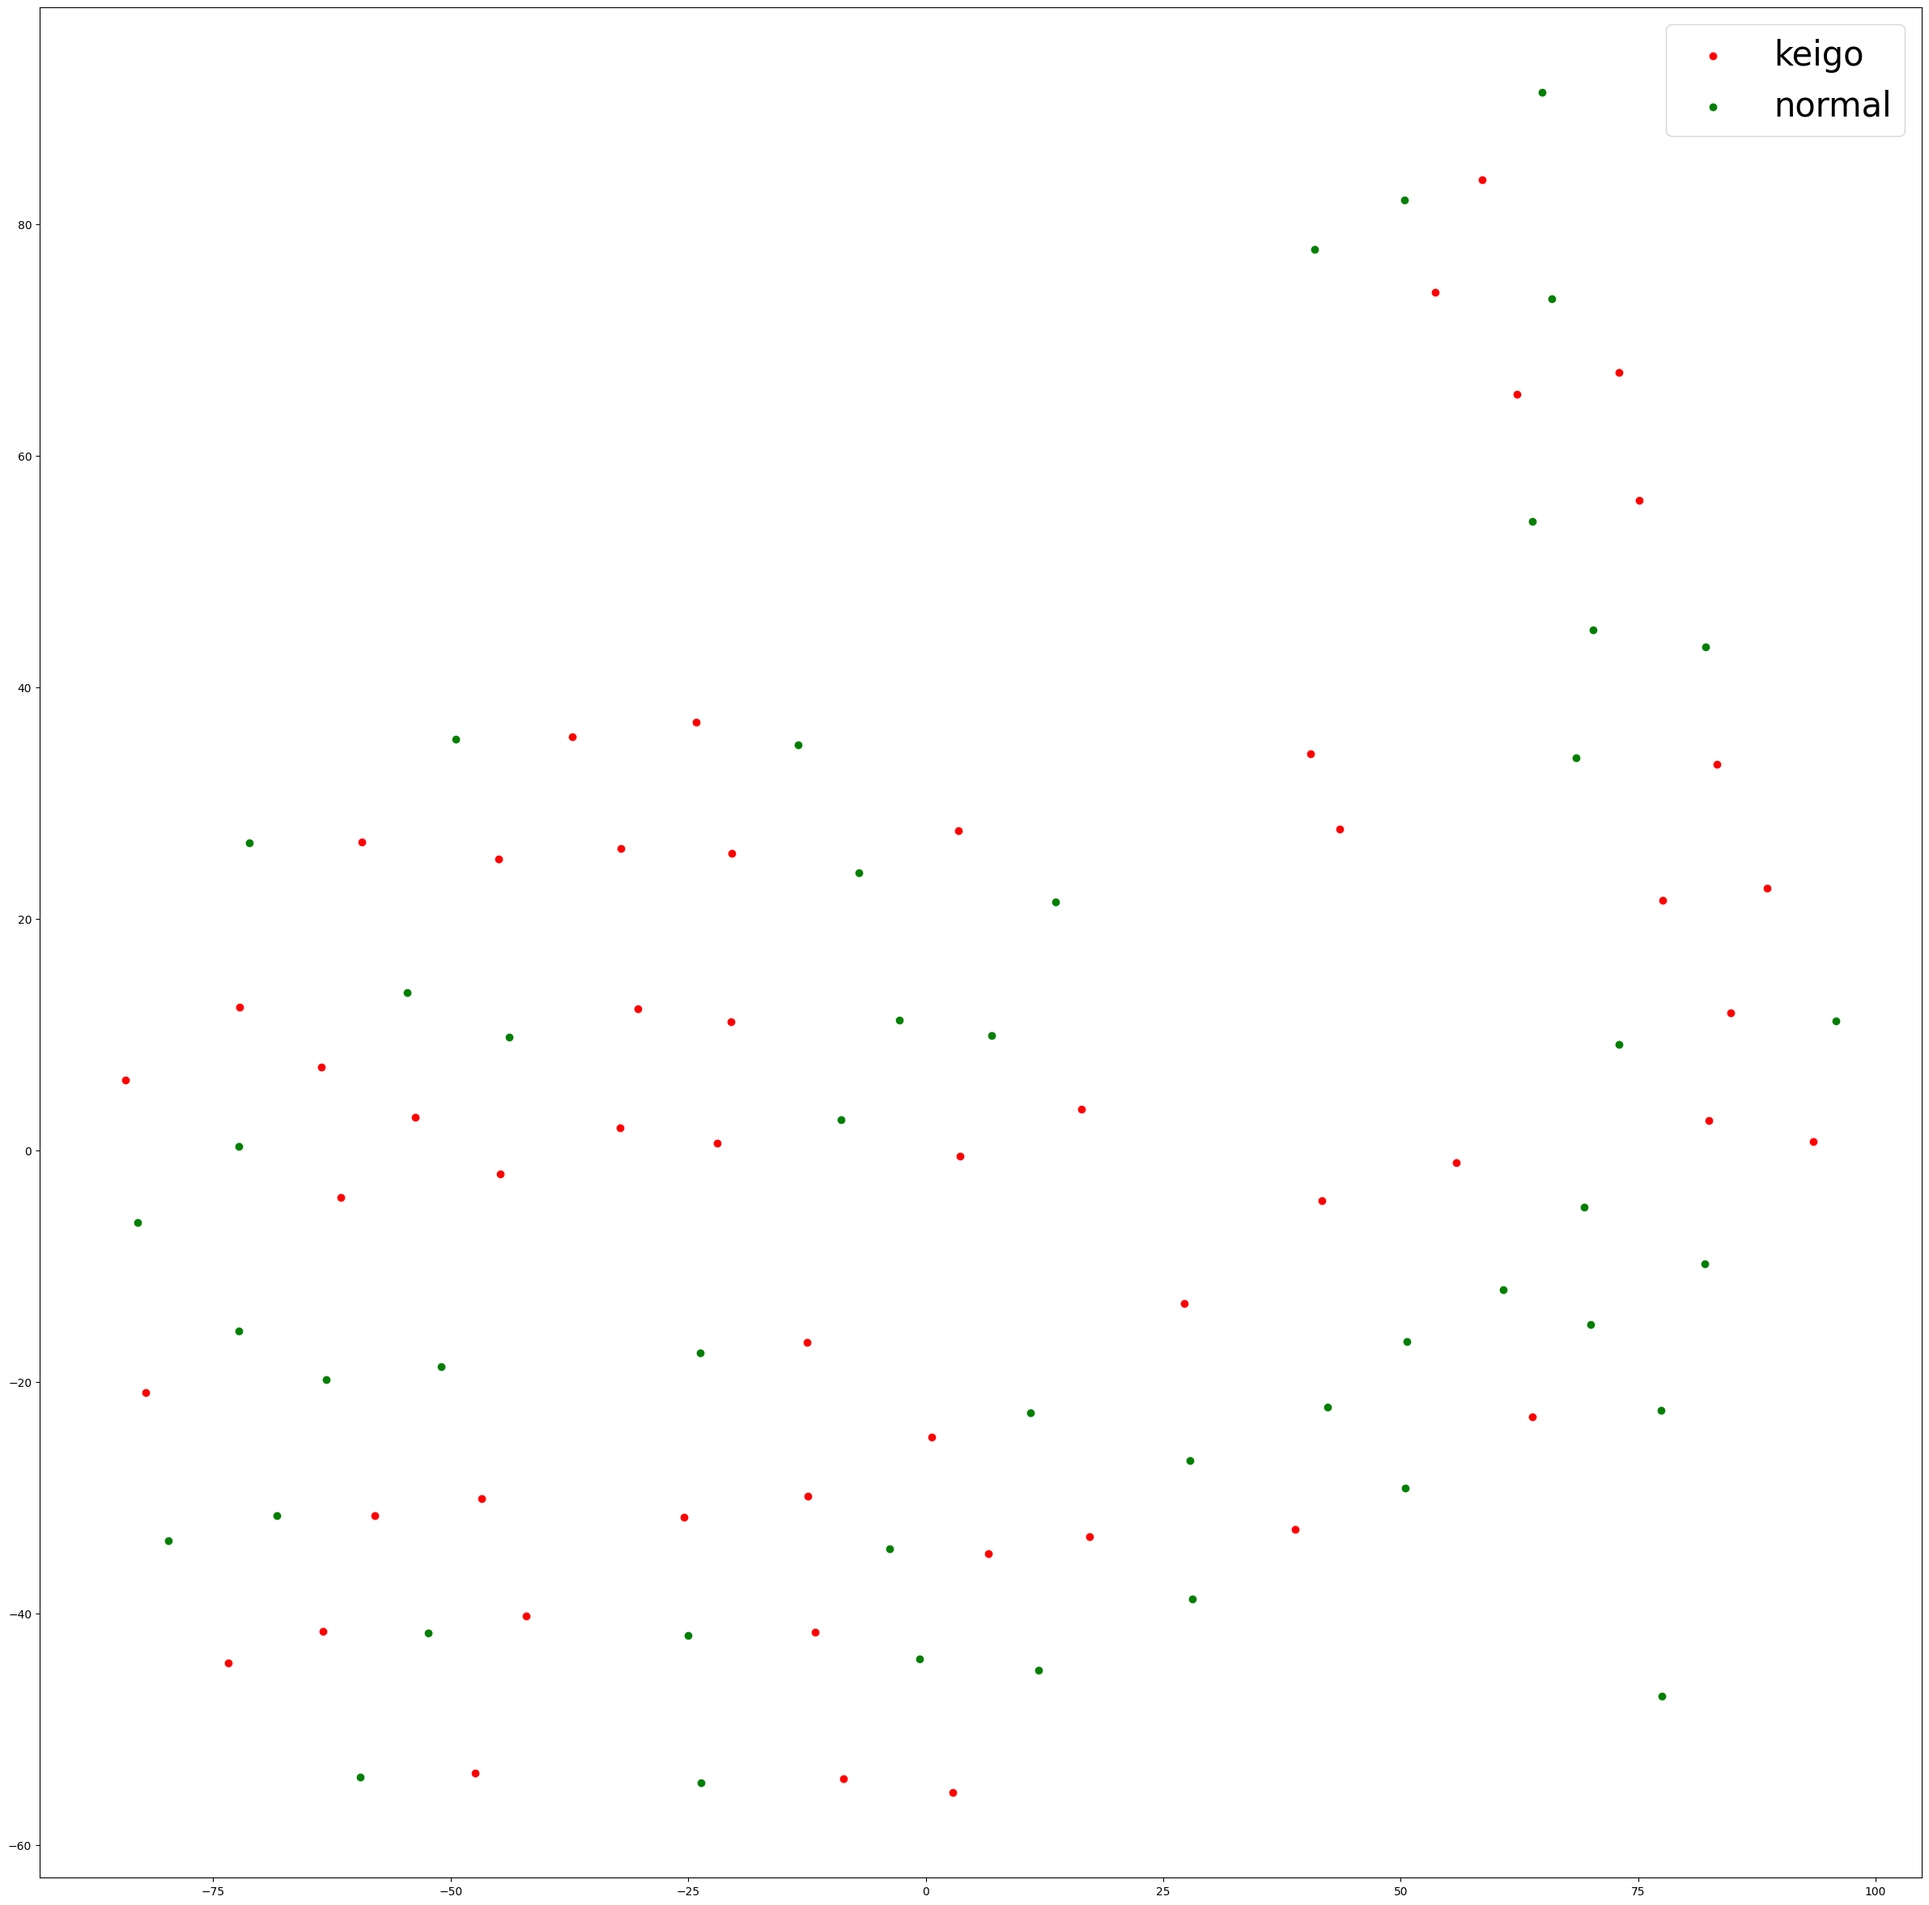
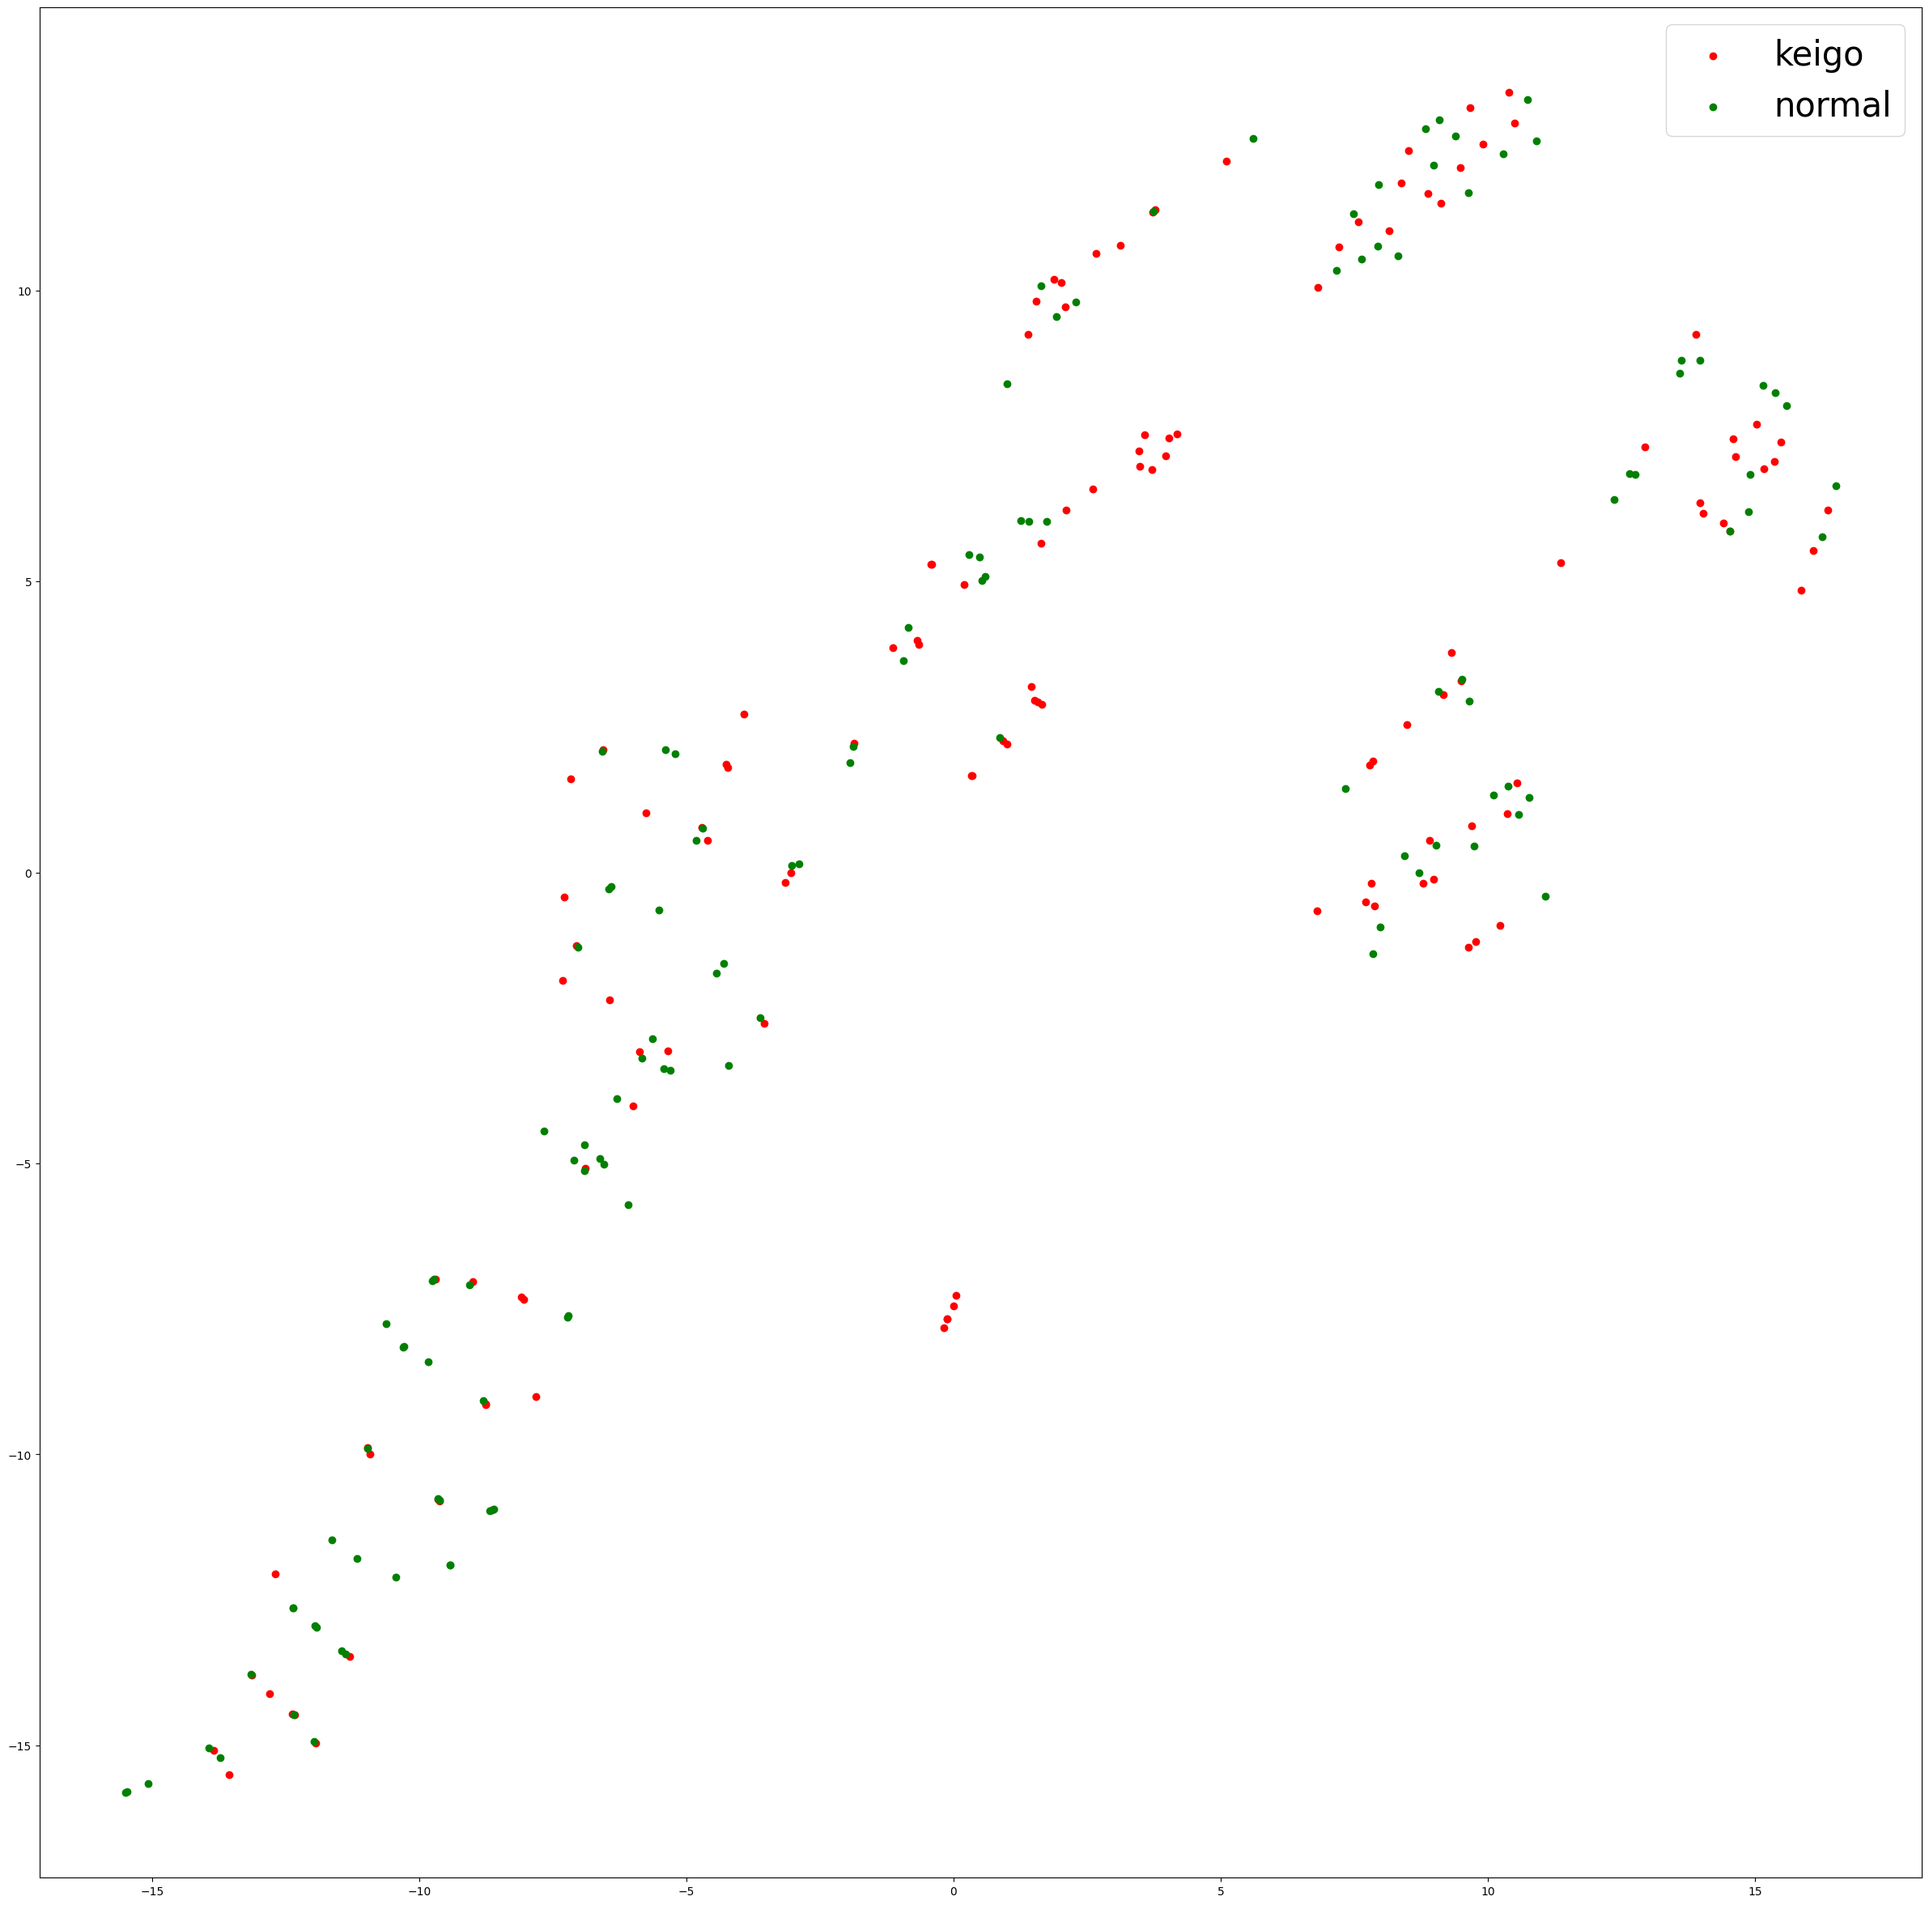
use production datasets

Changed region(s): [[0.59, 0.2172, 0.6211, 0.2482]]

diff --git a/eval_generation.py b/eval_generation.py
@@ -243,7 +243,7 @@ def main():
     
     swap(dataset_train, dataset_val, dataset_reader, vocab, style_vocab, model, 1000, 2000)
 
-    t_SNE_visualization(dataset_train, dataset_val, dataset_reader, style_vocab, model, 100, 'keigo_form_embeddings.png')
+    t_SNE_visualization(dataset_train, dataset_val, dataset_reader, style_vocab, model, 250, 'keigo_form_embeddings.png')
 
 
 if __name__ == '__main__':
